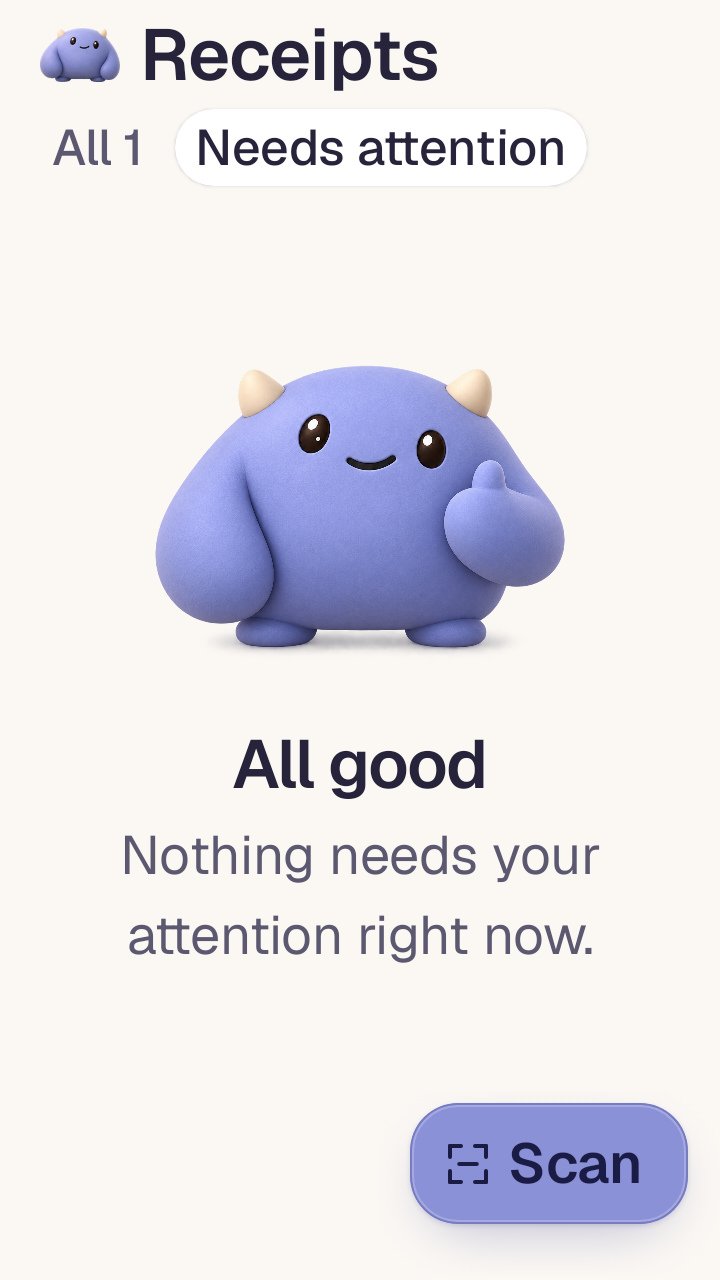
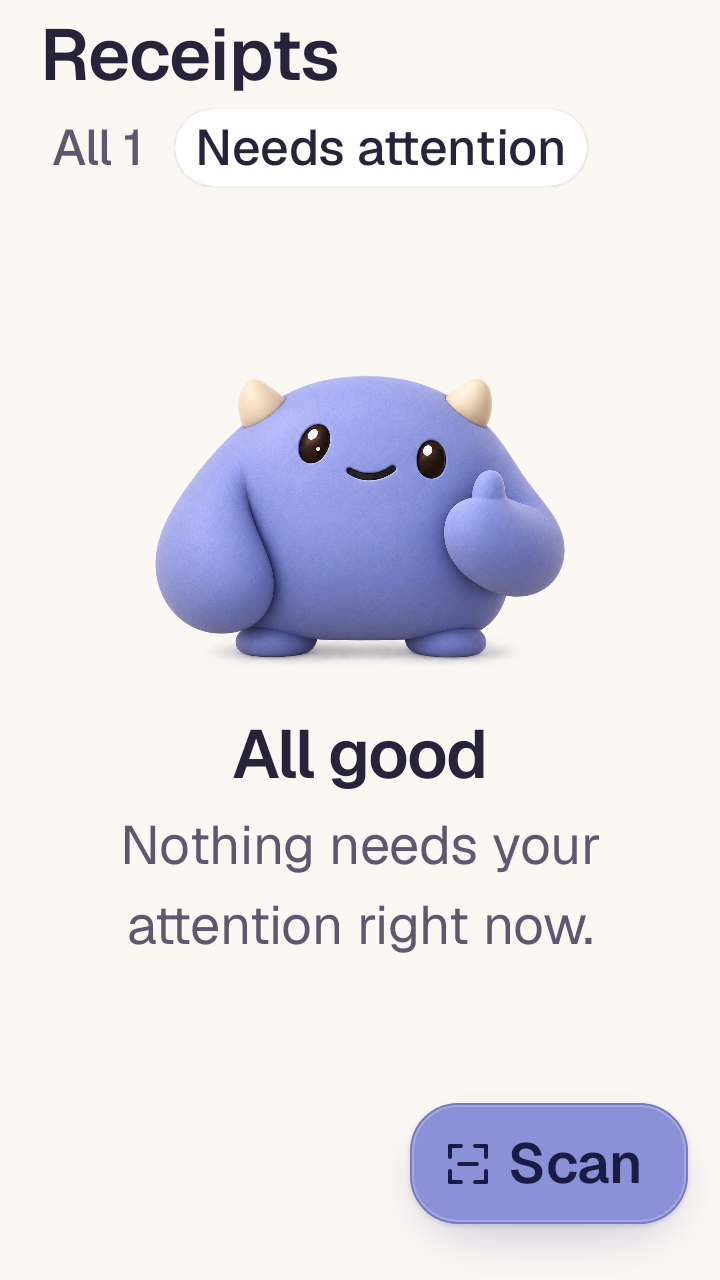
fix(goho-android): tighten Bram spacing and simplify the header
- bring empty-state illustrations closer to their titles
- remove the small Bram mark from the Receipts header
- synchronize design references and native mockups

diff --git a/programs/goho-android/app/src/main/kotlin/com/adamaho/goho/ui/components/ReceiptListHeader.kt b/programs/goho-android/app/src/main/kotlin/com/adamaho/goho/ui/components/ReceiptListHeader.kt
@@ -1,12 +1,10 @@
 package com.adamaho.goho.ui.components
 
-import androidx.compose.foundation.Image
 import androidx.compose.foundation.layout.*
 import androidx.compose.material3.Text
 import androidx.compose.runtime.Composable
 import androidx.compose.ui.Alignment
 import androidx.compose.ui.Modifier
-import androidx.compose.ui.res.painterResource
 import androidx.compose.ui.res.stringResource
 import androidx.compose.ui.semantics.heading
 import androidx.compose.ui.semantics.semantics
@@ -22,7 +20,6 @@ fun ReceiptListHeader(
     onSelect: (Boolean) -> Unit,
     locale: Locale,
     showFilters: Boolean = true,
-    showMark: Boolean = true,
 ) {
     Column(
         Modifier.fillMaxWidth()
@@ -33,14 +30,7 @@ fun ReceiptListHeader(
             Modifier.padding(start = GohoSpacing.textInsetFromMargin)
                 .heightIn(min = GohoSpacing.headerHeight),
             verticalAlignment = Alignment.CenterVertically,
-            horizontalArrangement = Arrangement.spacedBy(GohoSpacing.headerMarkGap),
         ) {
-            if (showMark)
-                Image(
-                    painterResource(R.drawable.bram_mark),
-                    contentDescription = null,
-                    modifier = Modifier.size(GohoSpacing.headerMark),
-                )
             Text(
                 stringResource(R.string.receipts_title),
                 style = GohoTheme.type.screenTitle,

diff --git a/.agents/skills/goho-design/assets/compose/GohoComponents.kt b/.agents/skills/goho-design/assets/compose/GohoComponents.kt
@@ -988,7 +988,8 @@ fun GohoDeleteError(modifier: Modifier = Modifier) {
 
 /** Current status content sits directly on the screen background. No receipts supplies receipt-holding Bram.
  * Empty Needs attention supplies calm thumbs-up Bram with "All good" and "Nothing needs your attention right now."
- * Each state uses its transparent illustration unchanged in light and dark themes. Load error omits illustration.
+ * Each state uses its transparent illustration unchanged in both themes, with a 4dp gap before its title.
+ * The Receipts header is text-only in every state. Load error omits illustration.
  * For retry, pass announcePolitely = true and reserve both button labels.
  * ReceiptOverview owns the success crossfade and passes animateEntrance = false on the incoming status content.
  */

diff --git a/.agents/skills/goho-design/assets/compose/GohoTheme.kt b/.agents/skills/goho-design/assets/compose/GohoTheme.kt
@@ -255,7 +255,7 @@ object GohoSpacing {
     val statusCardActionBottom = 24.dp
     val statusIllustrationWidth = 220.dp
     val statusIllustrationHeight = 190.dp
-    val statusTitleTop = 14.dp
+    val statusTitleTop = 4.dp
     val statusBodyTop = 6.dp
     val statusBodyMaxWidth = 290.dp
     val statusActionTop = 22.dp
@@ -324,8 +324,6 @@ object GohoSpacing {
     val sectionLabelBottom = 8.dp
     val fabBottom = 28.dp
     val hairline = 1.dp
-    val headerMark = 40.dp
-    val headerMarkGap = 10.dp
     val headerHeight = 44.dp
     val headerTop = 4.dp
     val headerFadeHeight = 12.dp

diff --git a/programs/goho-android/app/src/main/kotlin/com/adamaho/goho/theme/Spacing.kt b/programs/goho-android/app/src/main/kotlin/com/adamaho/goho/theme/Spacing.kt
@@ -9,7 +9,7 @@ object GohoSpacing {
     val statusCardActionBottom = 24.dp
     val statusIllustrationWidth = 220.dp
     val statusIllustrationHeight = 190.dp
-    val statusTitleTop = 14.dp
+    val statusTitleTop = 4.dp
     val statusBodyTop = 6.dp
     val statusBodyMaxWidth = 290.dp
     val statusActionTop = 22.dp
@@ -78,8 +78,6 @@ object GohoSpacing {
     val sectionLabelBottom = 8.dp
     val fabBottom = 28.dp
     val hairline = 1.dp
-    val headerMark = 40.dp
-    val headerMarkGap = 10.dp
     val headerHeight = 44.dp
     val headerTop = 4.dp
     val headerFadeHeight = 12.dp

diff --git a/programs/goho-android/app/src/main/kotlin/com/adamaho/goho/ui/main/ReceiptOverview.kt b/programs/goho-android/app/src/main/kotlin/com/adamaho/goho/ui/main/ReceiptOverview.kt
@@ -138,7 +138,6 @@ fun ReceiptOverview(
                     { attentionOnly = it },
                     locale,
                     showFilters = !error,
-                    showMark = !error,
                 )
                 if (showStatus) {
                     BoxWithConstraints(Modifier.weight(1f).fillMaxWidth()) {

diff --git a/.agents/skills/goho-design/references/screens.md b/.agents/skills/goho-design/references/screens.md
@@ -8,7 +8,7 @@ List and details receipt options and deletion use the same supported server endp
 
 **Header** (status bar inset + 4dp top, `screenMargin` sides)
 
-- Decorative Bram mark (`bram-mark.png`), 40×40dp, then a 10dp gap and title “Receipts” (`screenTitle`, `textPrimary`), inset 4dp, in a row at least 44dp tall. Hide the mark for a load error.
+- Title “Receipts” (`screenTitle`, `textPrimary`) at the 20dp text inset (4dp inside the screen margin), in a row at least 44dp tall. The header is text-only in every state, with no Bram mark.
 - Keep compact filter tabs below the title: “All {count}” and “Needs attention {badge}”. Only the selected tab has a pill surface; there is no enclosing track. Keep the header fixed while the list scrolls, without moving or resizing the filters. Needs attention shows receipts in the Not processed state.
 
 **List**
@@ -147,7 +147,7 @@ One GohoSheet, opened from the details screen's overflow button, by pressing and
 
 ## 6. Empty and error states
 
-Mockups: `empty-needs-attention*.png`, `empty-no-receipts*.png`, `load-error*.png` (dark and `-light`). All three use the shared status content layout (components.md), directly on the screen background without an enclosing card fill, border or rounded clipping. No receipts and empty Needs attention each share one transparent Bram asset across both themes. Render them and the neutral Bram header mark unchanged. Load error shows text and the retry action, without an illustration or reserved illustration space. Dedicated character artwork for other states is deferred until its feature is implemented. Older SVG illustrations are historical.
+Mockups: `empty-needs-attention*.png`, `empty-no-receipts*.png`, `load-error*.png` (dark and `-light`). All three use the shared status content layout (components.md), directly on the screen background without an enclosing card fill, border or rounded clipping. No receipts and empty Needs attention each share one transparent Bram asset across both themes. Render both unchanged, with a 4dp gap between the illustration slot and title. The Receipts header is text-only in every state. Load error shows text and the retry action, without an illustration or reserved illustration space. Dedicated character artwork for other states is deferred until its feature is implemented. Older SVG illustrations are historical.
 
 **Layout and transitions**
 
@@ -158,19 +158,19 @@ Mockups: `empty-needs-attention*.png`, `empty-no-receipts*.png`, `load-error*.pn
 
 **Needs attention, nothing in it**
 
-- Header includes Bram and filters ("Needs attention" selected, no badge). Preserve both filters after deleting the last failed receipt, even when the overall count is zero. The Scan button stays.
+- Header includes the “Receipts” title and filters ("Needs attention" selected, no badge). Preserve both filters after deleting the last failed receipt, even when the overall count is zero. The Scan button stays.
 - Bram and the copy are centered vertically between the filter and the Scan button, directly on the screen background. Illustration `status-needs-attention`: Bram gives a calm thumbs-up with a soft smile, using his familiar lilac and cream palette and rounded arms. Keep the approved pose without confetti, streamers or extra decorative colors. The single transparent PNG serves both themes, in the shared 220×190dp illustration slot.
 - Title "All good"; text "Nothing needs your attention right now." No button.
 
 **No receipts yet** (the account has no receipts at all)
 
-- Header shows Bram and the “Receipts” title (no filter). The Scan button stays.
-- Bram and the copy are centered between the header and Scan footer, directly on the plain screen background. Omit card fill, border and rounded clipping. Preserve the shared status content padding, illustration size and text spacing. Illustration `status-no-receipts`: Bram gently cradles a small blank cream receipt in front of his lower belly, with a welcoming smile. Preserve his broad lilac body, long rounded arms, small ivory horns and tiny feet. The single transparent PNG serves both themes; there is no separate floating receipt, plus badge or typing indicator.
+- Header shows the “Receipts” title (no filter). The Scan button stays.
+- Bram and the copy are centered between the header and Scan footer, directly on the plain screen background. Omit card fill, border and rounded clipping. Preserve the shared status content padding and illustration size, with a 4dp gap before the title. Illustration `status-no-receipts`: Bram gently cradles a small blank cream receipt in front of his lower belly, with a welcoming smile. Preserve his broad lilac body, long rounded arms, small ivory horns and tiny feet. The single transparent PNG serves both themes; there is no separate floating receipt, plus badge or typing indicator.
 - Title "No receipts yet"; text "Tap Scan to add your first one." No button.
 
 **Couldn’t load receipts** (the list request failed)
 
-- Header shows only the “Receipts” title. No Bram header mark, filter, or Scan button.
+- Header shows only the “Receipts” title. No filter or Scan button.
 - Text and retry action centered in the available area below the header, directly on the screen background. Omit the illustration and the gap that would precede the title.
 - Title "Couldn’t load receipts"; text "Check your connection and try again."; full-width GohoPrimaryButton "Try again" 22dp below the text. While retrying, the button shows "Trying again…" and is disabled.
 - Announce the status content as a polite live region when it appears.

diff --git a/.agents/skills/goho-design/SKILL.md b/.agents/skills/goho-design/SKILL.md
@@ -13,7 +13,7 @@ Think "Family wallet's warmth and motion, Linear's calm surfaces", never "Materi
 
 ## Bram refinements
 
-Buttons use flat fills, darker edge rings, faint inner rings and soft wide shadows; see `references/tokens.md`. Current Bram artwork in `assets/illustrations/` includes the no-receipts illustration, calm thumbs-up for the empty Needs attention filter, and neutral stance/header mark. Render the supplied artwork unchanged. All three list status states render directly on the screen background, without an enclosing card fill, border or rounded clipping. Preserve their content padding, spacing and placement. The no-receipts state uses one transparent image of Bram cradling a blank receipt in both themes. The empty Needs attention state uses one transparent image of Bram giving a calm thumbs-up in both themes, with “All good” and “Nothing needs your attention right now.” Keep his familiar lilac and cream palette, soft smile and rounded arm; no confetti or streamers. Load-error content remains text and retry action, without illustration or reserved illustration space. Additional character poses and accessories are deferred until their feature is implemented. Interactive accents are lavender. The decorative 40dp neutral Bram mark precedes the Receipts title with a 10dp gap, except in the load-error state. Buttons have 20dp corners and Scan 24dp. Status entrance, retry, recovery, and large-text behavior are specified in `references/screens.md` section 6.
+Buttons use flat fills, darker edge rings, faint inner rings and soft wide shadows; see `references/tokens.md`. The app uses two Bram illustrations from `assets/illustrations/`: no receipts and the calm thumbs-up for the empty Needs attention filter. Neutral Bram assets remain identity references only. Render the supplied artwork unchanged. All three list status states render directly on the screen background, without an enclosing card fill, border or rounded clipping. Preserve their content padding and placement, with a 4dp gap between each illustration slot and its title. The no-receipts state uses one transparent image of Bram cradling a blank receipt in both themes. The empty Needs attention state uses one transparent image of Bram giving a calm thumbs-up in both themes, with “All good” and “Nothing needs your attention right now.” Keep his familiar lilac and cream palette, soft smile and rounded arm; no confetti or streamers. Load-error content remains text and retry action, without illustration or reserved illustration space. Additional character poses and accessories are deferred until their feature is implemented. Interactive accents are lavender. The Receipts header is text-only in every state, with the title at the 20dp text inset in a row at least 44dp tall. Buttons have 20dp corners and Scan 24dp. Status entrance, retry, recovery, and large-text behavior are specified in `references/screens.md` section 6.
 
 ## Geist typography
 
@@ -58,7 +58,7 @@ The current handoff keeps the same receipt photo, merchant, amount and date head
 2. Build the primitives in `references/components.md`. `assets/compose/GohoComponents.kt` is a reference implementation of them; it has not been compiled, so treat it as a strong starting point and fix any API drift against the project's Compose version.
 3. Build screens from `references/screens.md`, which has the layout top to bottom with measurements, copy, states and behavior.
 4. Compare against the mockups listed in `assets/mockups/README.md`. The written spec wins if they disagree.
-5. When an approved UI change alters the design, update the affected specs, Compose references, illustration assets, and current mockups together. Preserve supplied artwork; label older reference assets as historical rather than presenting them as current. Keep the neutral Bram identity reference and generation prompts in `assets/illustrations/bram/`, approved artwork in `assets/illustrations/`, and current screen references in `assets/mockups/`. Check in only Bram artwork used by the no-receipts state, empty Needs attention state or neutral stance; defer other character states and concept sheets until their implementation. The Android capture tooling lives in `programs/goho-android/tools/bram-captures/` at the repository root; generated captures and reports belong in the ignored Android `build/` directory.
+5. When an approved UI change alters the design, update the affected specs, Compose references, illustration assets, and current mockups together. Preserve supplied artwork; label older reference assets as historical rather than presenting them as current. Keep the neutral Bram identity reference and generation prompts in `assets/illustrations/bram/`, approved artwork in `assets/illustrations/`, and current screen references in `assets/mockups/`. Ship only the no-receipts and empty Needs attention illustrations. Keep neutral Bram artwork as design identity references only; defer other character states and concept sheets until their implementation. The Android capture tooling lives in `programs/goho-android/tools/bram-captures/` at the repository root; generated captures and reports belong in the ignored Android `build/` directory.
 6. Verify the requested behavior against the current Goho server and Android flow before implementing it. Mockups do not establish backend support.
 
 ## Approved receipt-list refinements

diff --git a/.agents/skills/goho-design/assets/mockups/README.md b/.agents/skills/goho-design/assets/mockups/README.md
@@ -2,13 +2,13 @@
 
 ## Current status states (October 7, 2026 calm All good Bram)
 
-These captures render the production ReceiptOverview and its components using Robolectric native Android graphics (API 35) and Roborazzi. They are app renders without system bars, not emulator screenshots or redrawn mock layouts. The current captures show Bram cradling a blank receipt in the no-receipts state, a calm thumbs-up with “All good” in the empty Needs attention state, and text with a retry action in the load-error state. Content sits directly on the screen background, with the neutral Bram header mark where applicable. None of the three status states has an enclosing card. Their capture tooling is in `programs/goho-android/tools/bram-captures/` at the repository root. Dedicated Bram artwork for other states is deferred until their feature is implemented.
+These captures render the production ReceiptOverview and its components using Robolectric native Android graphics (API 35) and Roborazzi. They are app renders without system bars, not emulator screenshots or redrawn mock layouts. The current captures show Bram cradling a blank receipt in the no-receipts state, a calm thumbs-up with “All good” in the empty Needs attention state, and text with a retry action in the load-error state. Content sits directly on the screen background, with a 4dp gap between each empty-state illustration slot and title. The Receipts header is text-only in every state. None of the three status states has an enclosing card. Their capture tooling is in `programs/goho-android/tools/bram-captures/` at the repository root. Dedicated Bram artwork for other states is deferred until their feature is implemented.
 
-- `empty-needs-attention.png` and `empty-needs-attention-light.png`: Calm thumbs-up Bram with “All good” and “Nothing needs your attention right now.” directly on the screen background, neutral Bram header mark, selected filter, and Scan.
+- `empty-needs-attention.png` and `empty-needs-attention-light.png`: Calm thumbs-up Bram with “All good” and “Nothing needs your attention right now.” directly on the screen background, text-only Receipts header, selected filter, and Scan.
 - `empty-no-receipts.png` and `empty-no-receipts-light.png`: No receipts yet, with Bram and copy directly on the screen background, no surrounding card, and Scan in its footer; no filters.
 - `load-error.png` and `load-error-light.png`: Load-error text and retry action directly on the screen background, title only in the header, no Bram illustration or Scan.
 - `retry-running.png`, `retry-failed.png`, `retry-succeeded.png`: Disabled retry with stable bounds, failure in place, and the loaded list after success (light).
-- `deleted-last-failed-overall.png`: Calm thumbs-up Bram and All good copy on the screen background, with neutral Bram header; Needs attention stays selected with All 0 after deleting the last failed receipt (light).
+- `deleted-last-failed-overall.png`: Calm thumbs-up Bram and All good copy on the screen background, with a text-only Receipts header; Needs attention stays selected with All 0 after deleting the last failed receipt (light).
 - `large-font-load-error-scrolled.png`, `large-font-no-attention-scrolled.png`, `large-font-no-receipts-scrolled.png`: 2× font, scrolled to expose the body/action; Scan has its own footer where present.
 - `small-360-no-receipts.png` and `tall-no-receipts.png`: Short and tall layout references.
 
@@ -16,7 +16,7 @@ Standard captures are 360×800dp at 2× (720×1600px). Edge captures use 360×64
 
 ## Historical layout references (October 2 v2)
 
-The remaining files were rendered from the older design canvas, usually at 824×1784px. They retain the previous jade palette, button geometry, and some superseded content. Use them only for the named layout/interaction concepts. Current colors, shapes, Bram header, status behavior, and approved refinements come from `references/*.md` and the current captures above.
+The remaining files were rendered from the older design canvas, usually at 824×1784px. They retain the previous jade palette, button geometry, and some superseded content. Use them only for the named layout/interaction concepts. Current colors, shapes, text-only header, status behavior, and approved refinements come from `references/*.md` and the current captures above.
 
 - `receipts.png` / `receipts-light.png`: Populated list layout.
 - `receipt-details.png` / `receipt-details-light.png`: Details with items and overflow.

diff --git a/.agents/skills/goho-design/references/components.md b/.agents/skills/goho-design/references/components.md
@@ -32,8 +32,8 @@ Reference implementations live in `assets/compose/GohoComponents.kt`. Every pres
 
 - Full width inside the screen margin, padding 28 top / 24 sides / 32 bottom (24 bottom when it has a button). Content centered directly on the screen background. No enclosing card fill, border or rounded clipping in any list status state.
 - Use the shared status content for no receipts, needs attention and load error. Preserve the shared padding, spacing, entrance and centered placement; the Scan footer stays separate when present.
-- No receipts and empty Needs attention show an illustration (220×190dp), followed by a 14dp gap before the title. Load error omits both the illustration and this gap. Title is 20/26 SemiBold −0.02em `textPrimary`, followed by a 6dp gap before body text in `body` `textSecondary` (max width 290dp), then an optional full-width button 22dp below.
-- Illustration assets live in `assets/illustrations/`. No receipts uses `status-no-receipts.png`; empty Needs attention uses the calm thumbs-up `status-needs-attention.png`. Both PNGs are 1350×1165 RGBA, with each state using the same transparent asset in both themes. Preserve the artwork unchanged and render with `ContentScale.Fit` in the existing slot up to 220dp wide with a 220:190 aspect ratio. These two poses and the neutral Bram stance/header mark are current; dedicated artwork for other states is deferred until its feature is implemented. The older SVGs in `legacy/` are not sources for these Bram images.
+- No receipts and empty Needs attention show an illustration (220×190dp), followed by a 4dp gap before the title. Load error omits both the illustration and this gap. Title is 20/26 SemiBold −0.02em `textPrimary`, followed by a 6dp gap before body text in `body` `textSecondary` (max width 290dp), then an optional full-width button 22dp below.
+- Illustration assets live in `assets/illustrations/`. No receipts uses `status-no-receipts.png`; empty Needs attention uses the calm thumbs-up `status-needs-attention.png`. Both PNGs are 1350×1165 RGBA, with each state using the same transparent asset in both themes. Preserve the artwork unchanged and render with `ContentScale.Fit` in the existing slot up to 220dp wide with a 220:190 aspect ratio. These two poses are the only production Bram artwork. The neutral stance and former header mark are design identity references only; dedicated artwork for other states is deferred until its feature is implemented. The older SVGs in `legacy/` are not sources for these Bram images.
 - The illustration is decorative (`contentDescription = null`); the title is a heading and the title/body group carries the meaning. Only the load-error content is a polite live region.
 - Entrance: one 200ms fade with a 6dp upward settle; no looping character animation. Successful retry crossfades the whole error screen to the loaded state in 200ms without replaying the incoming status entrance. With reduced motion, render the final state immediately.
 - The retry button reserves space for both “Try again” and “Trying again…” at the current font scale. Hidden measurement labels have no semantics. Disable the button while retrying and preserve its bounds after failure.

diff --git a/.agents/skills/goho-design/assets/illustrations/README.md b/.agents/skills/goho-design/assets/illustrations/README.md
@@ -1,12 +1,12 @@
 # Bram illustrations
 
-Current Bram assets are limited to the no-receipts empty state, calm “All good” pose for the empty Needs attention filter, and neutral stance/header mark. The no-receipts artwork was refined on October 7, 2026 and checked in native Compose renders. The neutral header mark retains the approved PR #101 artwork. These PNGs are byte-for-byte copies of the Android drawable assets; keep both copies synchronized when artwork changes.
+The app ships two Bram illustrations: the no-receipts empty state and calm “All good” pose for the empty Needs attention filter. These PNGs are byte-for-byte copies of the Android drawable assets; keep both copies synchronized when artwork changes. Neutral Bram artwork remains here as a design identity reference only. The Receipts header is text-only in every state.
 
-- `bram-mark.png`: neutral Bram stance used as a decorative header mark, displayed at 40×40dp in both themes. Omit it on the load-error screen.
+- `bram-mark.png`: neutral Bram identity reference retained from PR #101. It is not shipped or displayed in the app.
 - `status-no-receipts.png`: Bram gently cradling a small blank cream receipt. The same transparent asset is used in light and dark mode, directly on the screen background alongside the empty-state copy, without a surrounding card. No separate plus badge or typing indicator.
 - `status-needs-attention.png`: Bram giving a calm thumbs-up with his familiar smile, rounded arm and lilac and cream palette. Pair it with “All good” and “Nothing needs your attention right now.” The same transparent asset serves both themes directly on the screen background, without a card, confetti or streamers.
 
-Both empty-state PNGs are 1350×1165 RGBA. Render both empty-state illustrations unchanged with ContentScale.Fit in the shared 220×190dp slot that can shrink proportionally on narrow screens. Artwork is decorative; text supplies the accessible meaning. Android names use underscores instead of hyphens. Load error uses text and its retry action directly on the screen background, without a card or illustration. Additional character states and concept sheets are deferred until their feature is implemented.
+Both empty-state PNGs are 1350×1165 RGBA. Render both empty-state illustrations unchanged with ContentScale.Fit in the shared 220×190dp slot that can shrink proportionally on narrow screens, with a 4dp gap before the title. Artwork is decorative; text supplies the accessible meaning. Android names use underscores instead of hyphens. Load error uses text and its retry action directly on the screen background, without a card or illustration. Additional character states and concept sheets are deferred until their feature is implemented.
 
 The SVGs in `legacy/` are the October 2 paper-and-pastel illustrations. They are retained for provenance, not as editable sources for the Bram PNGs. Do not re-export them over the current artwork. No editable Bram source is included in this PR.
 

diff --git a/programs/goho-android/tools/bram-captures/README.md b/programs/goho-android/tools/bram-captures/README.md
@@ -19,7 +19,7 @@ Thirteen existing test filters cover the implemented screens and transitions:
 - Load error: `loadErrorLight`, `loadErrorDark`, and `largeTextError`.
 - Retry and deletion: `retryFailureAndSuccess` and `deleteLastFailedOverall`.
 
-The no-receipts and empty Needs attention states use their approved Bram artwork. All three states sit directly on the screen background. Empty Needs attention pairs the calm thumbs-up pose with “All good” and “Nothing needs your attention right now.” Load errors use text and the existing retry action. The captures cover light and dark at 360×800dp, short at 360×640dp, tall at 412×960dp, and 2× font at 360×640dp, all at 2× density. Large-text checks capture initial and scrolled states and assert that their relevant copy or actions are reachable. The retry check verifies loading, failure, and recovery without shifting the error title; the deletion check verifies that deleting the last failed receipt preserves the selected Needs attention tab and visible Scan action. Fifteen selected screenshots are the approved mockups; the three additional initial large-text screenshots remain generated output.
+The no-receipts and empty Needs attention states use their approved Bram artwork. All three states sit directly on the screen background. The Receipts header uses text only; illustrated status states use the shared 4dp image-to-title spacing. Empty Needs attention pairs the calm thumbs-up pose with “All good” and “Nothing needs your attention right now.” Load errors use text and the existing retry action. The captures cover light and dark at 360×800dp, short at 360×640dp, tall at 412×960dp, and 2× font at 360×640dp, all at 2× density. Large-text checks capture initial and scrolled states and assert that their relevant copy or actions are reachable. The retry check verifies loading, failure, and recovery without shifting the error title; the deletion check verifies that deleting the last failed receipt preserves the selected Needs attention tab and visible Scan action. Fifteen selected screenshots are the approved mockups; the three additional initial large-text screenshots remain generated output.
 
 Artwork references and generation prompts live under [the design skill's Bram sources](../../../../.agents/skills/goho-design/assets/illustrations/bram/). The approved PNG masters are [status-no-receipts.png](../../../../.agents/skills/goho-design/assets/illustrations/status-no-receipts.png) and [status-needs-attention.png](../../../../.agents/skills/goho-design/assets/illustrations/status-needs-attention.png). Approved screen references live in [its mockups directory](../../../../.agents/skills/goho-design/assets/mockups/). Generated capture history remains available in Git: commit `4a866b9` contains the original-artwork baseline and the card-backed receipt artwork, and `69c44fb` contains the cardless state, under the former `art/bram/no-receipts-review/` path.
 

diff --git a/.agents/skills/goho-design/assets/illustrations/bram/README.md b/.agents/skills/goho-design/assets/illustrations/bram/README.md
@@ -1,11 +1,11 @@
 # Bram sources
 
-- `reference/bram-v3.png`: original neutral Bram identity and proportions.
+- `reference/bram-v3.png`: original neutral Bram identity and proportions; a design reference only, not shipped or displayed in the app.
 - `no-receipts.prompts.json`: generation and edge-refinement prompts for the no-receipts illustration. Current file references are relative to this directory; the historical pose reference is recorded as a Git object.
 - `needs-attention.prompts.json`: generation prompt and provenance for the approved calm thumbs-up illustration in the empty Needs attention state.
 
 The approved PNG masters are [status-no-receipts.png](../status-no-receipts.png) and [status-needs-attention.png](../status-needs-attention.png). The Android drawables are their production copies; do not keep additional masters here. Preserve Bram’s broad lilac body, long rounded arms, small ivory horns, tiny feet and soft texture.
 
-Only the no-receipts pose, calm thumbs-up for the empty Needs attention filter, and neutral Bram stance are in scope. The thumbs-up accompanies “All good” and “Nothing needs your attention right now.” Preserve its quiet lilac and cream palette without confetti or streamers. The earlier accessory concept sheet is preserved in Git history at the object named in `no-receipts.prompts.json`, because it was an input to this illustration. Additional character states and their source artwork will be added with their implementation in a later PR.
+Only the no-receipts pose and calm thumbs-up for the empty Needs attention filter are shipped. The neutral Bram stance and former header mark remain design identity references only; the Receipts header is text-only in every state. The thumbs-up accompanies “All good” and “Nothing needs your attention right now.” Preserve its quiet lilac and cream palette without confetti or streamers. The earlier accessory concept sheet is preserved in Git history at the object named in `no-receipts.prompts.json`, because it was an input to this illustration. Additional character states and their source artwork will be added with their implementation in a later PR.
 
 Current native screen references live in [mockups](../../mockups/). Regenerate them with the Android capture tooling in `programs/goho-android/tools/bram-captures/` at the repository root. Generated captures and reports belong in the ignored Android `build/` directory. Earlier artwork and review evidence remain in Git history.
